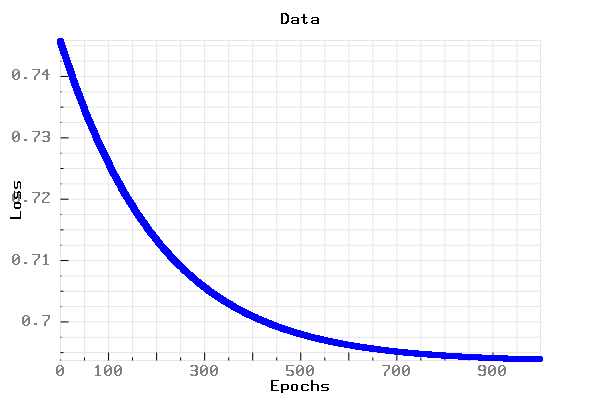
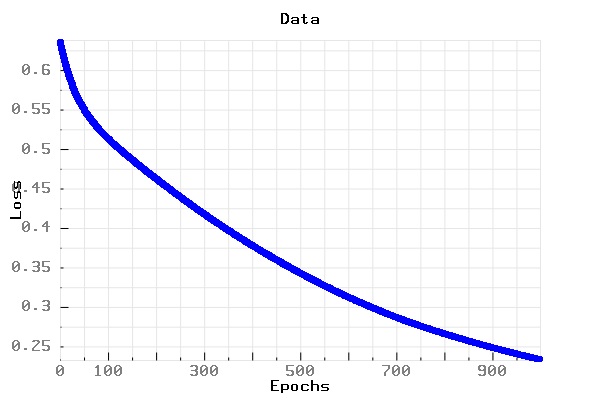
ANN_class_ModuleDict_classification

diff --git a/A_deep_understanding_of_deep_learning_PyTorch_Cpp/Application.cpp b/A_deep_understanding_of_deep_learning_PyTorch_Cpp/Application.cpp
@@ -51,35 +51,23 @@ namespace ANNs {
 
 	void ANN_class_classification();
 
+	class ANN_ModuleDict : public torch::nn::Module {
+
+	private:
+		torch::nn::ModuleDict ann_dict{ nullptr };
+
+	public:
+		ANN_ModuleDict();
+
+		torch::Tensor forward(torch::Tensor x);
+	};
+
+	void ANN_class_ModuleDict_classification();
+
 	void AllCalls();
 }
 
-class ANN_ModuleDict : public torch::nn::Module {
 
-private:
-
-	torch::nn::ModuleDict ann_dict{ nullptr };
-
-public:
-
-	ANN_ModuleDict() {
-		
-		torch::OrderedDict<std::string, std::shared_ptr<Module>> ordereddict = {
-			{"input", torch::nn::Linear(1, 2).ptr()},
-			{"output", torch::nn::Linear(2, 1).ptr()},
-		};
-		torch::nn::ModuleDict dict(ordereddict);
-		ann_dict = register_module("ann_dict", dict);
-	}
-
-	torch::Tensor forward(torch::Tensor x) {
-
-		x = ann_dict["input"]->as<torch::nn::Linear>()->forward(x);
-		x = ann_dict["output"]->as<torch::nn::Linear>()->forward(x);
-
-		return x;
-	}
-};
 
 int main(int argc, char** args) {
 
@@ -88,31 +76,7 @@ int main(int argc, char** args) {
 	Gradient_Descent::AllCalls();
 	ANNs::AllCalls();
 	*/
-
-	torch::Tensor y = torch::reshape(torch::arange(1, 20, 2, torch::kFloat), { -1, 1 });
-	torch::Tensor x = torch::reshape(torch::arange(y.size(0), torch::kFloat), { -1, 1 });
-
-	ANN_ModuleDict net;
-
-	float learningRate = 0.01;
-	torch::optim::SGD optimizer(net.parameters(), learningRate);
-
-	int numepochs = 1000;
-	torch::Tensor losses = torch::zeros(numepochs, torch::kFloat);
-
-	for (int i = 0; i < numepochs; i++) {
-		torch::Tensor yhat = net.forward(x);
-
-		torch::Tensor loss = torch::mse_loss(yhat, y);
-		losses[i] = loss;
-
-		optimizer.zero_grad();
-		loss.backward();
-		optimizer.step();
-	}
-	torch::Tensor ypred = net.forward(x);
-
-	std::cout << torch::hstack({y, ypred}) << std::endl;
+	
 
 	return 0;
 }
@@ -914,6 +878,143 @@ void ANNs::ANN_class_classification() {
 #pragma endregion
 }
 
+ANNs::ANN_ModuleDict::ANN_ModuleDict() {
+
+	torch::OrderedDict<std::string, std::shared_ptr<Module>> ordereddict = {
+		{"input", torch::nn::Linear(2, 1).ptr()},
+		{"output", torch::nn::Linear(1, 1).ptr()},
+	};
+	torch::nn::ModuleDict dict(ordereddict);
+	ann_dict = register_module("ann_dict", dict);
+}
+
+torch::Tensor ANNs::ANN_ModuleDict::forward(torch::Tensor x) {
+
+	x = ann_dict["input"]->as<torch::nn::Linear>()->forward(x);
+	x = torch::relu(x);
+	x = ann_dict["output"]->as<torch::nn::Linear>()->forward(x);
+	x = torch::sigmoid(x);
+
+	return x;
+}
+
+void ANNs::ANN_class_ModuleDict_classification() {
+
+#pragma region Create data
+
+	int nPerClust = 100;
+	int blur = 1;
+
+	int A[] = { 1, 1 }; // centroid category 1
+	int	B[] = { 5, 1 }; // centroid category 2
+
+
+	torch::Tensor ax_t = A[0] + torch::randn({ nPerClust }, torch::TensorOptions(torch::kCPU).dtype(at::kFloat)) * blur;
+	torch::Tensor ay_t = A[1] + torch::randn({ nPerClust }, torch::TensorOptions(torch::kCPU).dtype(at::kFloat)) * blur;
+	torch::Tensor bx_t = B[0] + torch::randn({ nPerClust }, torch::TensorOptions(torch::kCPU).dtype(at::kFloat)) * blur;
+	torch::Tensor by_t = B[1] + torch::randn({ nPerClust }, torch::TensorOptions(torch::kCPU).dtype(at::kFloat)) * blur;
+
+	std::vector<double> ax(ax_t.data_ptr<float>(), ax_t.data_ptr<float>() + ax_t.numel());
+	std::vector<double> ay(ay_t.data_ptr<float>(), ay_t.data_ptr<float>() + ay_t.numel());
+	std::vector<double> bx(bx_t.data_ptr<float>(), bx_t.data_ptr<float>() + bx_t.numel());
+	std::vector<double> by(by_t.data_ptr<float>(), by_t.data_ptr<float>() + by_t.numel());
+
+	plot_data(ax, ay, bx, by, "plots/ANN_classifier_1.png");
+
+	torch::Tensor labels = torch::vstack({ torch::zeros({nPerClust, 1}), torch::ones({nPerClust, 1}) });
+
+	torch::Tensor dataA = torch::transpose(torch::stack({ ax_t, ay_t }), 1, 0);
+	torch::Tensor dataB = torch::transpose(torch::stack({ bx_t, by_t }), 1, 0);
+
+	torch::Tensor data = torch::vstack({ dataA, dataB });
+
+#pragma endregion
+
+#pragma region creating and train the model
+
+	/*torch::nn::Sequential ANNclassify(
+		torch::nn::Linear(2, 1),
+		torch::nn::ReLU(),
+		torch::nn::Linear(1, 1),
+		torch::nn::Sigmoid()
+	);*/
+
+	ANNs::ANN_ModuleDict ANNclassify;
+
+	float learningRate = 0.01;
+	torch::optim::SGD optimizer(ANNclassify.parameters(), learningRate);
+
+	int numepochs = 1000;
+	torch::Tensor losses = torch::zeros(numepochs, torch::kFloat32);
+
+	for (int i = 0; i < numepochs; i++) {
+		torch::Tensor yhat = ANNclassify.forward(data);
+
+		torch::Tensor loss = torch::binary_cross_entropy(yhat, labels);
+		losses[i] = loss;
+
+		optimizer.zero_grad();
+		loss.backward();
+		optimizer.step();
+	}
+#pragma endregion
+
+#pragma region make predictions
+
+	torch::Tensor predictions = ANNclassify.forward(data);
+
+	plot_losses(losses, numepochs, "plots/ANN_classifier_3_losses.png");
+
+	int errors = 0;
+	bool y = false;
+	bool yHat = false;
+
+	vector<double> errx;
+	vector<double> erry;
+
+	float threshold = 0.5;
+
+	for (int i = 0; i < nPerClust * 2; i++) {
+
+		y = false;
+		yHat = false;
+
+		if (labels[i].item<int>() == 1)
+			y = true;
+		if (predictions[i].item<float>() > threshold)
+			yHat = true;
+
+		if (y != yHat) {
+
+			errx.push_back(data[i][0].item<double>());
+			erry.push_back(data[i][1].item<double>());
+			errors++;
+		}
+	}
+	std::cout << "Accuracy : " << 100 * (((nPerClust * 2) - errors) / float(nPerClust * 2)) << "%" << std::endl;
+
+	vector<double> catAx;
+	vector<double> catAy;
+	vector<double> catBx;
+	vector<double> catBy;
+
+	for (int i = 0; i < nPerClust * 2; i++) {
+
+		if (predictions[i].item<float>() <= threshold) {
+			catAx.push_back(data[i][0].item<double>());
+			catAy.push_back(data[i][1].item<double>());
+		}
+		else {
+			catBx.push_back(data[i][0].item<double>());
+			catBy.push_back(data[i][1].item<double>());
+		}
+	}
+
+	plot_data_err(catAx, catAy, catBx, catBy, errx, erry, "plots/ANN_classifier_2_pred.png");
+
+#pragma endregion
+}
+
 void ANNs::AllCalls() {
 
 	ANN_regression();
@@ -921,4 +1022,5 @@ void ANNs::AllCalls() {
 	Multilayer_ANN_classification();
 	ANN_iris_dataset();
 	ANN_class_classification();
+	ANNs::ANN_class_ModuleDict_classification();
 }
